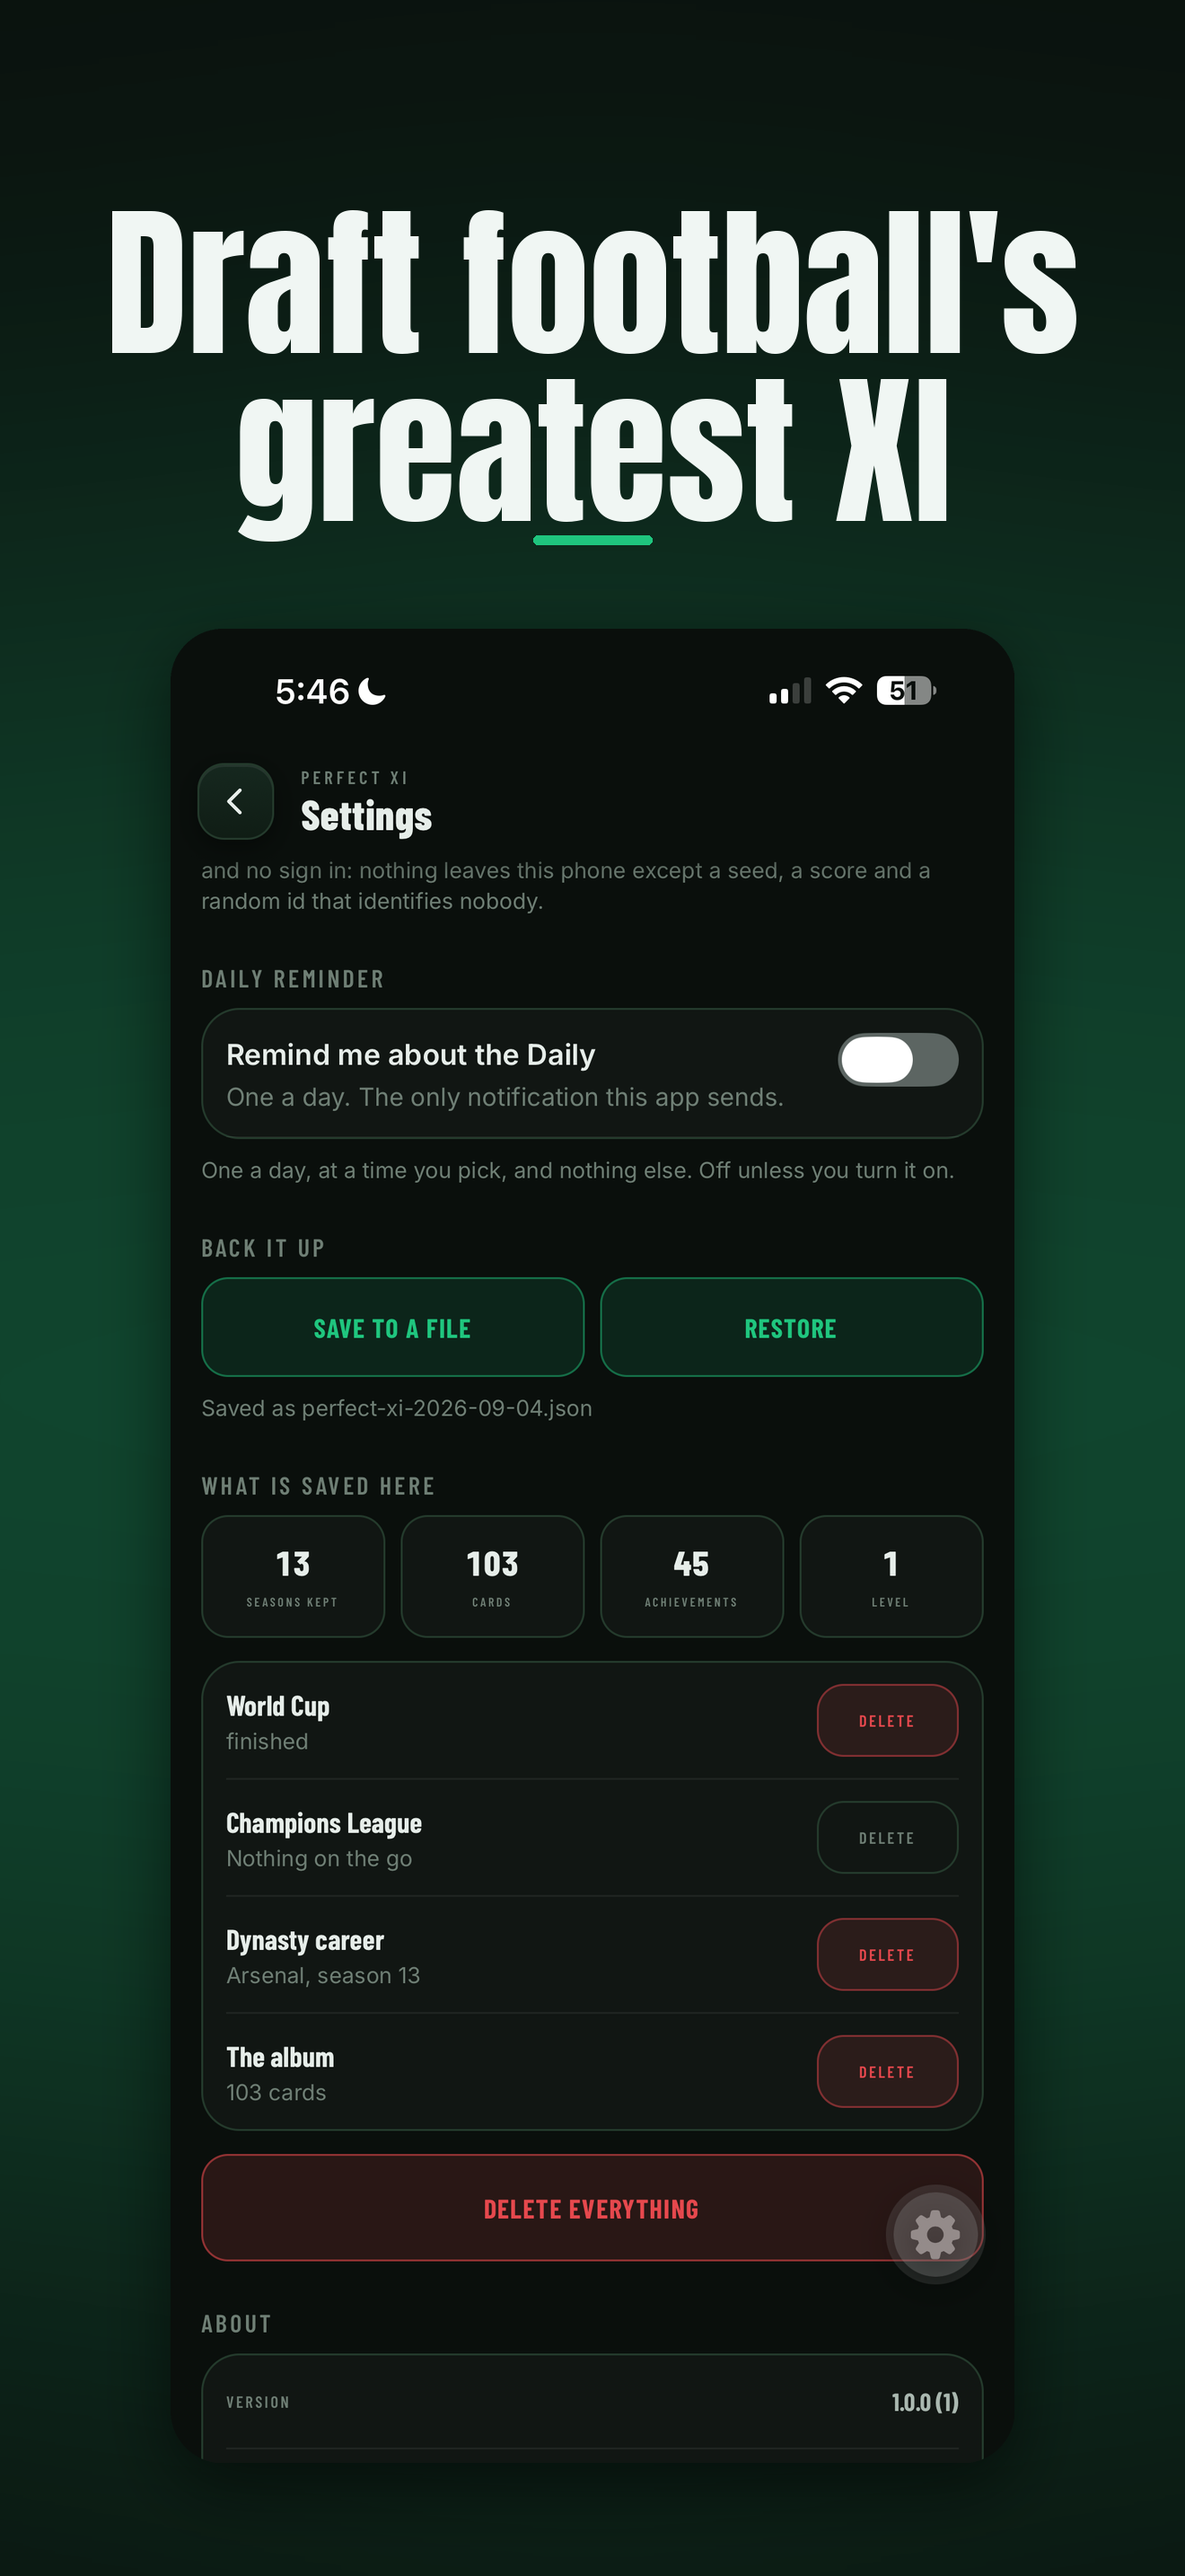
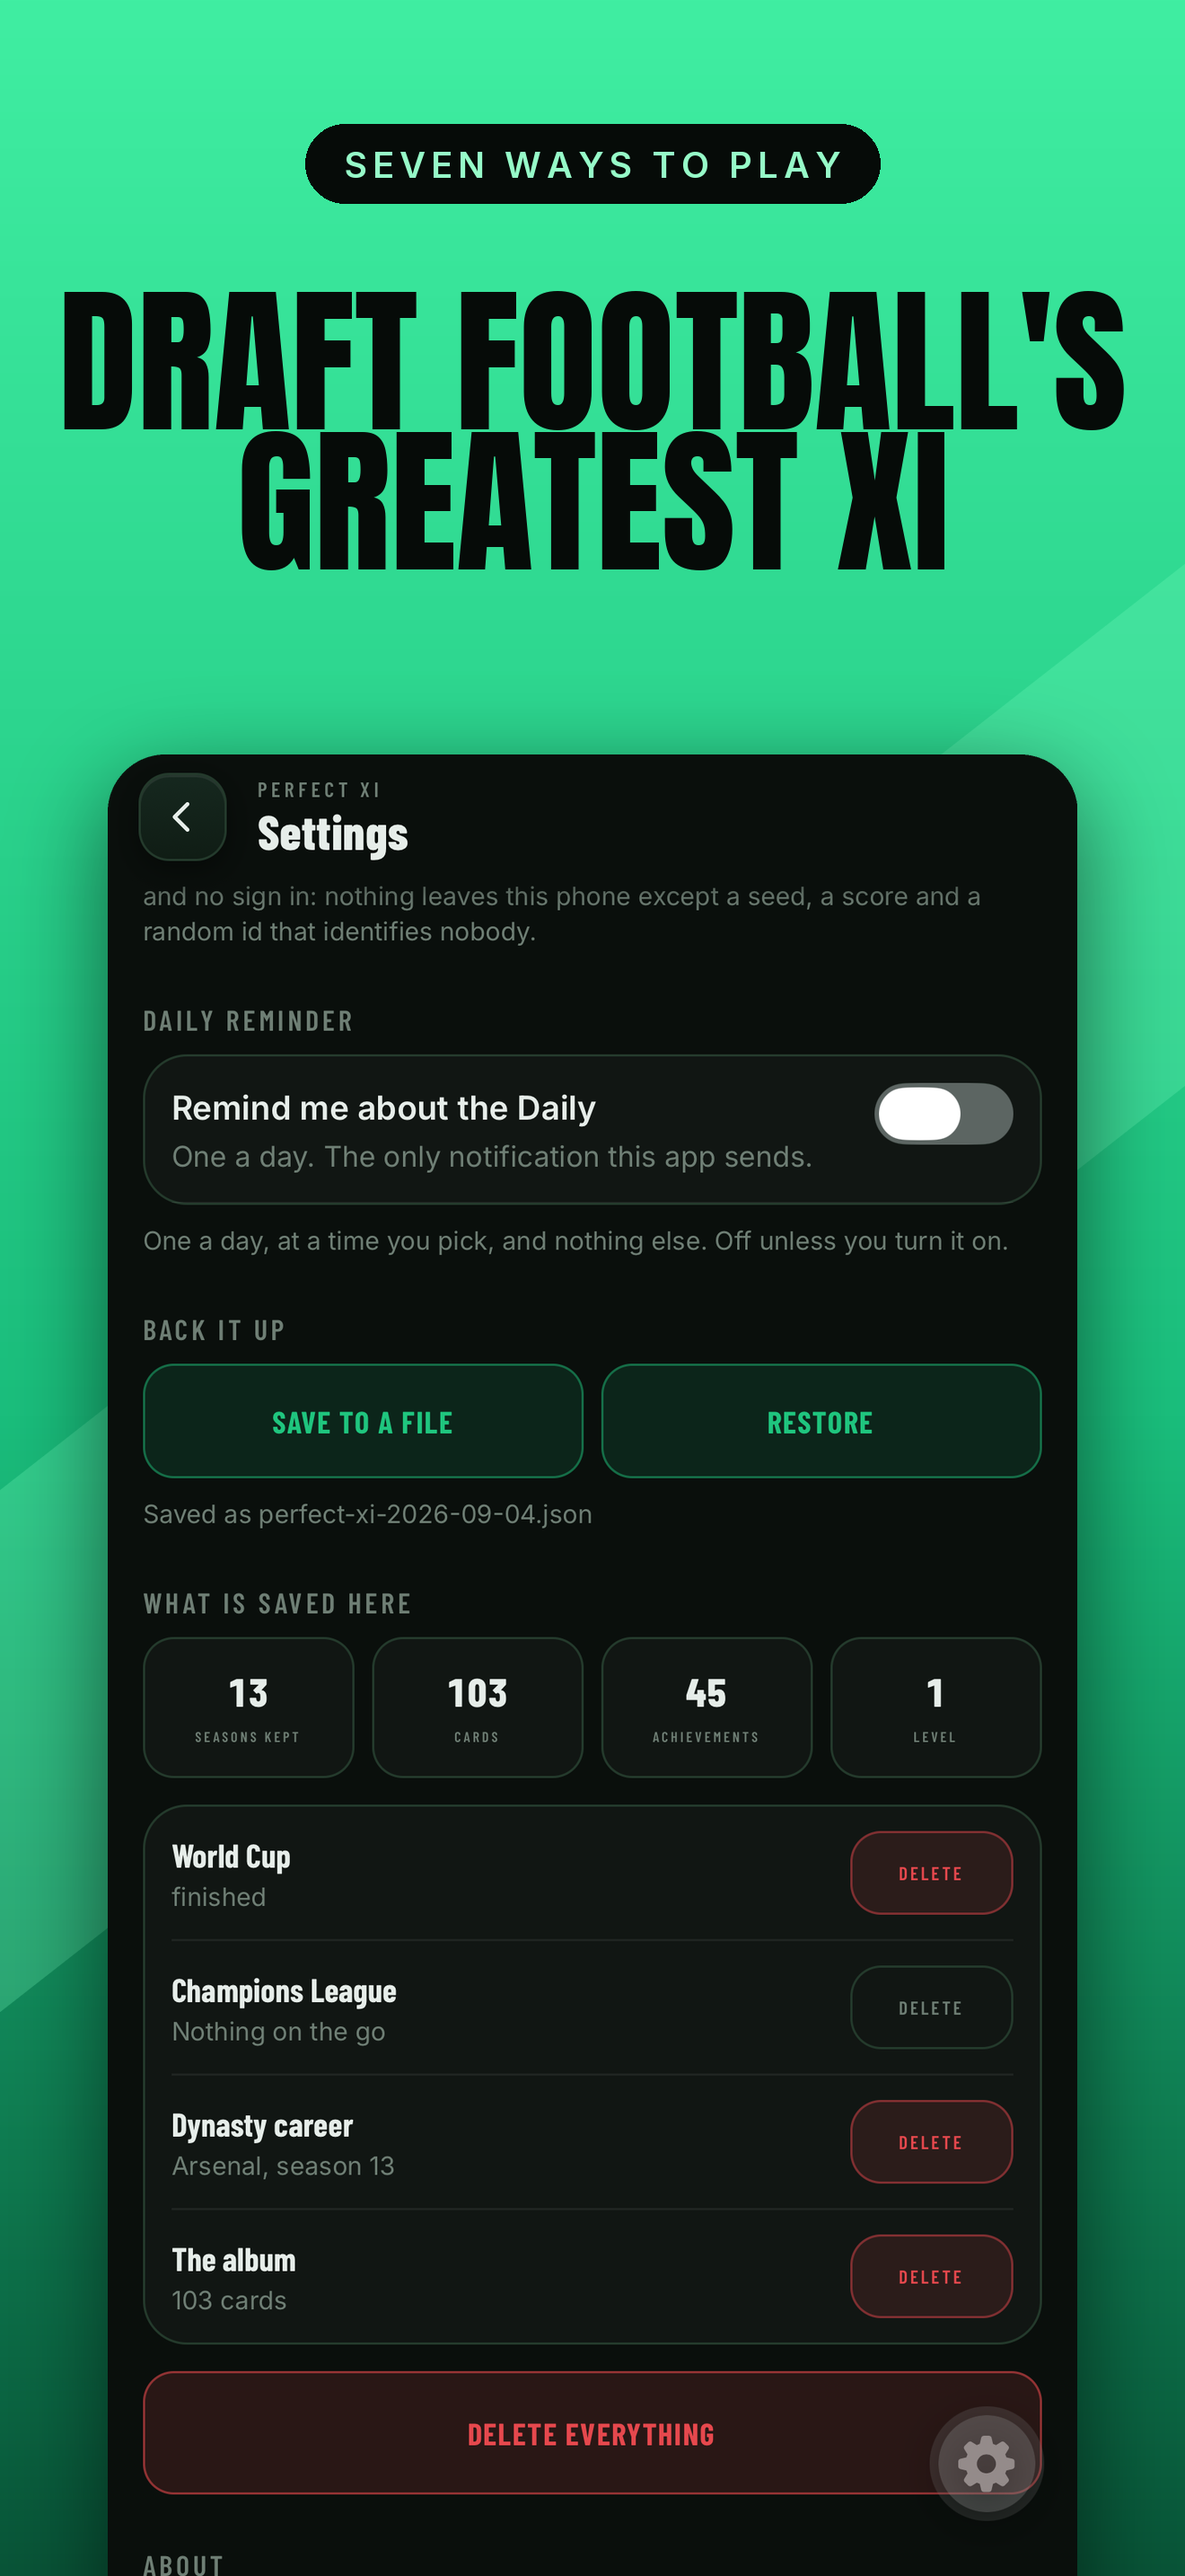
Feature labels on the frames, not an awards badge
A laurel wreath awards badge was asked for. It is not going on. It
claims an award the game has not won, which misrepresents the app to
somebody deciding whether to install it, the wreath in question is a
real organisation mark, and Apple rejects screenshots that mislead.

The job it would have done is worth doing though: a second, quieter
claim under the headline. So every frame now carries a small label above
its caption, and every one of them is true. Seven ways to play. 1992 to
2026. Immersive career. 3,003 real players.

A factual label costs nothing and cannot come back on you later.

Also folded the chosen treatment in as the only style and removed the
exploration files, so there is one tool doing one job. Contact sheet is
generated on every run, large and at thumbnail size, because thumbnail
is where a caption either works or does not.

diff --git a/perfectxi/tools/screenshots/compose.py b/perfectxi/tools/screenshots/compose.py
@@ -1,57 +1,115 @@
 """
-The composition layer for the App Store screenshots.
+The App Store screenshot frames.
 
-Raw captures come off a real phone and go in raw/. This puts a caption
-and a background around them and writes the finished frames to out/.
-Nothing here draws any part of the app: it only ever places a capture
-that already exists, which is the rule Apple enforces and the reason a
-screenshot may not be improved in a design tool.
+Captures come off a real phone into raw/. This puts the caption and the
+background around them and writes finished frames to out/. Nothing here
+draws any part of the app: it only ever places a capture that already
+exists. That is the rule Apple enforces, and the reason a screenshot may
+not be tidied up in a design tool. If a screen is not good enough to
+capture, the screen gets fixed and captured again.
 
-The two folders are kept apart on purpose. Recapturing on a new build
-overwrites raw/ and never touches a finished frame, and rebuilding the
-finished set never needs the phone.
+raw/ and out/ never touch. Recapturing on a new build cannot destroy a
+finished frame, and rebuilding the finished set never needs the phone.
 
 Captions live in captions.<lang>.json, one file per language, so another
 language is data rather than a second layout.
 
-    python tools/screenshots/compose.py            # English
+    python tools/screenshots/compose.py
     python tools/screenshots/compose.py --lang fr
+    python tools/screenshots/compose.py --only 01-home
+
+Why it looks the way it does, since all of it was arrived at by being
+wrong first:
+
+  The ground is saturated. The first version was near black with a white
+  caption, which was tasteful and invisible, because a dark frame beside
+  the store's own dark chrome has nothing to separate it.
+
+  The caption is uppercase Anton, sized automatically until it runs out
+  of width or out of the two lines it is allowed. A caption that cannot
+  be read in a search result is not a caption.
+
+  The screen runs off the bottom edge. A frame containing a whole phone
+  is a slide about the app. One that is cut off is a window into it.
+
+  The status bar is cropped, not redrawn. A drawn one was tried and read
+  as fake on sight, because a hand made battery next to a real iOS one
+  always will. For the classic 9:41, set the phone's clock by hand,
+  charge it to full, capture, and set STRIP_STATUS_BAR to False.
+
+  The diagonal sash is carried over from the app icon, so the store page
+  and the thing that lands on the home screen look like each other.
+
+  Each frame carries a small label above its caption. It is there to do
+  the job an awards laurel would do, which is to add a second, quieter
+  claim without crowding the headline, except that every one of these is
+  true. An app may not show an award it has not won: it misrepresents
+  the app to somebody deciding whether to install it, it is somebody
+  else's mark, and Apple rejects it. A factual label costs nothing and
+  cannot come back on you.
 """
 
 from PIL import Image, ImageDraw, ImageFont, ImageFilter
-import json, os, sys, argparse
+import argparse, json, os
 
-W, H = 1320, 2868                 # the 6.9 inch canvas Apple asks for
+W, H = 1320, 2868            # the 6.9 inch canvas, and nothing else is accepted
+STATUS_BAR_H = 185           # measured off a real capture at this size
+STRIP_STATUS_BAR = True
 
-BG      = (10, 15, 12)
-TEXT    = (240, 246, 243)
-EMERALD = (31, 197, 126)
-GOLD    = (214, 178, 94)
+INK    = (6, 11, 8)
+BRIGHT = (64, 238, 162)
+MID    = (26, 190, 124)
+DEEP   = (8, 84, 55)
+
+BADGE_TOP  = 138
+CAP_TOP    = 268
+CAP_BUDGET = 640
+CAP_LINES  = 2
+LEADING    = 0.88
+SHOT_W     = 1080
+SHOT_TOP   = 840
+CORNER     = 64
 
 HERE = os.path.dirname(os.path.abspath(__file__))
 ROOT = os.path.abspath(os.path.join(HERE, "..", ".."))
 ANTON = os.path.join(ROOT, "node_modules/@expo-google-fonts/anton/400Regular/Anton_400Regular.ttf")
-
+INTER = os.path.join(ROOT, "node_modules/@expo-google-fonts/inter/600SemiBold/Inter_600SemiBold.ttf")
 RAW = os.path.join(HERE, "raw")
 OUT = os.path.join(HERE, "out")
 
-# ---- the layout, in pixels on the 1320 by 2868 canvas ----
-MARGIN_X   = 96
-CAP_TOP    = 176          # where the caption block starts
-CAP_MAX_W  = W - MARGIN_X * 2
-CAP_LINES  = 2            # a caption is three to five words. two lines is plenty.
-SHOT_W     = 940          # the app screen, centred
-SHOT_TOP   = 700
-CORNER     = 58
+
+def wash():
+    im = Image.new("RGB", (W, H))
+    d = ImageDraw.Draw(im)
+    stops = [(0.0, BRIGHT), (0.55, MID), (1.0, DEEP)]
+    for y in range(H):
+        t = y / (H - 1)
+        for i in range(len(stops) - 1):
+            p0, c0 = stops[i]
+            p1, c1 = stops[i + 1]
+            if p0 <= t <= p1:
+                k = 0 if p1 == p0 else (t - p0) / (p1 - p0)
+                d.line([(0, y), (W, y)],
+                       fill=tuple(int(c0[j] + (c1[j] - c0[j]) * k) for j in range(3)))
+                break
+    return im
+
+
+def sash(width_frac=0.16, angle=38):
+    m = Image.new("L", (W * 3, W * 3), 0)
+    bw = int(H * width_frac)
+    m.paste(Image.new("L", (W * 3, bw), 255), (0, (W * 3 - bw) // 2))
+    m = m.rotate(angle, resample=Image.BICUBIC)
+    left, top = (W * 3 - W) // 2, (W * 3 - H) // 2
+    return m.crop((left, top, left + W, top + H))
 
 
 def wrap(text, font, max_w, draw):
-    """Greedy wrap. Returns the lines, or None if any single word overflows."""
     words, lines, line = text.split(), [], ""
     for w in words:
-        trial = f"{line} {w}".strip()
-        if draw.textlength(trial, font=font) <= max_w:
-            line = trial
+        t = f"{line} {w}".strip()
+        if draw.textlength(t, font=font) <= max_w:
+            line = t
         else:
             if not line:
                 return None
@@ -62,28 +120,29 @@ def wrap(text, font, max_w, draw):
     return lines
 
 
-def fit_caption(text, max_w, max_lines, budget_h):
+def fit(text, max_w, max_lines, budget_h):
     """
-    The largest Anton that fits the caption in the space it has.
+    The largest Anton that still fits.
 
-    A caption that is not legible in a search result is not a caption, so
-    this pushes the size up until it either runs out of width, runs out of
-    lines, or runs out of the height it has been given.
+    Pushed up until it runs out of width, runs out of lines, or runs out
+    of the height it has been given. Sized rather than fixed because the
+    captions are different lengths and a fixed size would leave the short
+    ones small for no reason.
     """
     probe = ImageDraw.Draw(Image.new("RGB", (8, 8)))
     best = None
-    for size in range(60, 260, 2):
+    for size in range(80, 340, 2):
         f = ImageFont.truetype(ANTON, size)
-        lines = wrap(text, f, max_w, probe)
-        if lines is None or len(lines) > max_lines:
+        ls = wrap(text, f, max_w, probe)
+        if ls is None or len(ls) > max_lines:
             break
-        lh = int(size * 1.02)
-        if lh * len(lines) > budget_h:
+        lh = int(size * LEADING)
+        if lh * len(ls) > budget_h:
             break
-        best = (f, lines, lh)
+        best = (f, ls, lh)
     if best is None:
-        f = ImageFont.truetype(ANTON, 60)
-        best = (f, wrap(text, f, max_w, probe) or [text], 62)
+        f = ImageFont.truetype(ANTON, 80)
+        best = (f, wrap(text, f, max_w, probe) or [text], 72)
     return best
 
 
@@ -94,55 +153,88 @@ def rounded_mask(size, radius):
     return m.resize(size, Image.LANCZOS)
 
 
-def background(accent):
-    """Near black, with a bloom behind where the screen will sit."""
-    im = Image.new("RGB", (W, H), BG)
-    g = Image.new("L", (W, H), 0)
-    r = int(W * 0.78)
-    cy = SHOT_TOP + int(SHOT_W * 0.9)
-    ImageDraw.Draw(g).ellipse([W // 2 - r, cy - r, W // 2 + r, cy + r], fill=255)
-    g = g.filter(ImageFilter.GaussianBlur(W * 0.30)).point(lambda v: int(v * 0.30))
-    return Image.composite(Image.new("RGB", (W, H), accent), im, g)
+def badge(im, text):
+    """
+    The small label above the caption.
+
+    A pill in the ink colour with the type knocked out of it, which sits
+    on the bright ground without competing with the headline. Letter
+    spaced, because a short line in caps needs air to read as a label
+    rather than as a word that got shrunk.
+    """
+    d = ImageDraw.Draw(im)
+    f = ImageFont.truetype(INTER, 40)
+    up = text.upper()
+    track = 6
+    w = sum(d.textlength(c, font=f) for c in up) + track * (len(up) - 1)
+    pad_x, pad_y = 44, 24
+    h = 40 + pad_y * 2
+    x0 = (W - (w + pad_x * 2)) / 2
+    d.rounded_rectangle([x0, BADGE_TOP, x0 + w + pad_x * 2, BADGE_TOP + h],
+                        radius=h // 2, fill=INK)
+    x = x0 + pad_x
+    y = BADGE_TOP + (h - 46) / 2
+    for c in up:
+        d.text((x, y), c, font=f, fill=(150, 250, 200))
+        x += d.textlength(c, font=f) + track
+    return im
 
 
-def compose(capture_path, caption, accent=EMERALD):
-    shot = Image.open(capture_path).convert("RGB")
+def compose(path, caption_text, badge_text=None):
+    shot = Image.open(path).convert("RGB")
     if shot.size != (W, H):
         raise SystemExit(
-            f"{os.path.basename(capture_path)} is {shot.size[0]} by {shot.size[1]}. "
-            f"It has to be {W} by {H}, which is what an iPhone 16 or 17 Pro Max "
-            f"screenshot already is. Do not resize it, take it again on the right phone."
+            f"\n{os.path.basename(path)} is {shot.size[0]} by {shot.size[1]}.\n"
+            f"It has to be {W} by {H}, which is what an iPhone 16 or 17 Pro Max\n"
+            f"screenshot already is. Do not resize it. Take it again on the right phone.\n"
         )
+    if STRIP_STATUS_BAR:
+        shot = shot.crop((0, STATUS_BAR_H, W, H))
 
-    im = background(accent)
+    im = wash()
+    im = Image.composite(Image.new("RGB", (W, H), (120, 252, 190)), im,
+                         sash().point(lambda v: int(v * 0.26)))
+
+    if badge_text:
+        im = badge(im, badge_text)
+
     d = ImageDraw.Draw(im)
-
-    # ---- the caption ----
-    f, lines, lh = fit_caption(caption, CAP_MAX_W, CAP_LINES, SHOT_TOP - CAP_TOP - 150)
+    f, lines, lh = fit(caption_text.upper(), W - 130, CAP_LINES, CAP_BUDGET)
     y = CAP_TOP
     for ln in lines:
-        w = d.textlength(ln, font=f)
-        d.text(((W - w) / 2, y), ln, font=f, fill=TEXT)
+        d.text(((W - d.textlength(ln, font=f)) / 2, y), ln, font=f, fill=INK)
         y += lh
 
-    # a short rule under the caption, in the accent
-    rw, rh = 132, 10
-    d.rounded_rectangle([(W - rw) // 2, y + 46, (W + rw) // 2, y + 46 + rh],
-                        radius=rh // 2, fill=accent)
-
-    # ---- the capture ----
-    sh = int(SHOT_W * H / W)
+    sh = int(SHOT_W * shot.size[1] / shot.size[0])
     small = shot.resize((SHOT_W, sh), Image.LANCZOS)
     mask = rounded_mask((SHOT_W, sh), CORNER)
+    x = (W - SHOT_W) // 2
 
-    # a shadow so the screen sits on the background rather than in it
+    # a shadow, so the screen sits on the ground rather than in it
     sha = Image.new("L", (W, H), 0)
-    sha.paste(mask, ((W - SHOT_W) // 2, SHOT_TOP + 26))
-    sha = sha.filter(ImageFilter.GaussianBlur(38)).point(lambda v: int(v * 0.55))
+    sha.paste(mask, (x, SHOT_TOP + 34))
+    sha = sha.filter(ImageFilter.GaussianBlur(52)).point(lambda v: int(v * 0.55))
     im = Image.composite(Image.new("RGB", (W, H), (0, 0, 0)), im, sha)
-
-    im.paste(small, ((W - SHOT_W) // 2, SHOT_TOP), mask)
+    im.paste(small, (x, SHOT_TOP), mask)
     return im
+
+
+def contact(frames, path):
+    """Every frame side by side, and again at the size it is first seen."""
+    big_h, thumb_h, pad = 900, 250, 32
+    big_w, thumb_w = int(W * big_h / H), int(W * thumb_h / H)
+    sheet = Image.new(
+        "RGB",
+        (pad + len(frames) * (big_w + pad), pad + big_h + 34 + thumb_h + pad),
+        (20, 22, 21))
+    d = ImageDraw.Draw(sheet)
+    label = ImageFont.truetype(INTER, 18)
+    for i, (name, im) in enumerate(frames):
+        x = pad + i * (big_w + pad)
+        sheet.paste(im.resize((big_w, big_h), Image.LANCZOS), (x, pad))
+        d.text((x, pad + big_h + 6), name, font=label, fill=(230, 237, 233))
+        sheet.paste(im.resize((thumb_w, thumb_h), Image.LANCZOS), (x, pad + big_h + 32))
+    sheet.save(path)
 
 
 def main():
@@ -155,7 +247,7 @@ def main():
         captions = json.load(fh)
 
     os.makedirs(OUT, exist_ok=True)
-    done = 0
+    frames = []
     for name in sorted(os.listdir(RAW)):
         if not name.lower().endswith(".png"):
             continue
@@ -163,15 +255,21 @@ def main():
         if args.only and stem != args.only:
             continue
         if stem not in captions:
-            print(f"  no caption for {stem}, skipped")
+            print(f"  {stem}: no caption in captions.{args.lang}.json, skipped")
             continue
-        im = compose(os.path.join(RAW, name), captions[stem]["line"])
-        # RGB, no alpha, exact pixels. Apple rejects anything else.
-        out = os.path.join(OUT, f"{stem}.png")
-        im.convert("RGB").save(out)
-        print(f"  {stem:14} {im.size[0]} x {im.size[1]}  {captions[stem]['line']}")
-        done += 1
-    print(f"\n{done} frame{'' if done == 1 else 's'} written to {OUT}")
+        entry = captions[stem]
+        im = compose(os.path.join(RAW, name), entry["line"], entry.get("badge"))
+        im.convert("RGB").save(os.path.join(OUT, f"{stem}.png"))
+        frames.append((stem, im))
+        print(f"  {stem:14} {entry.get('badge', ''):24} {entry['line']}")
+
+    if frames:
+        contact(frames, os.path.join(OUT, "contact-sheet.png"))
+        n = len(frames)
+        print(f"\n{n} frame{'' if n == 1 else 's'} and a contact sheet in {OUT}")
+    else:
+        print(f"\nNothing in {RAW}. Put the captures there, named to match "
+              f"captions.{args.lang}.json.")
 
 
 if __name__ == "__main__":
